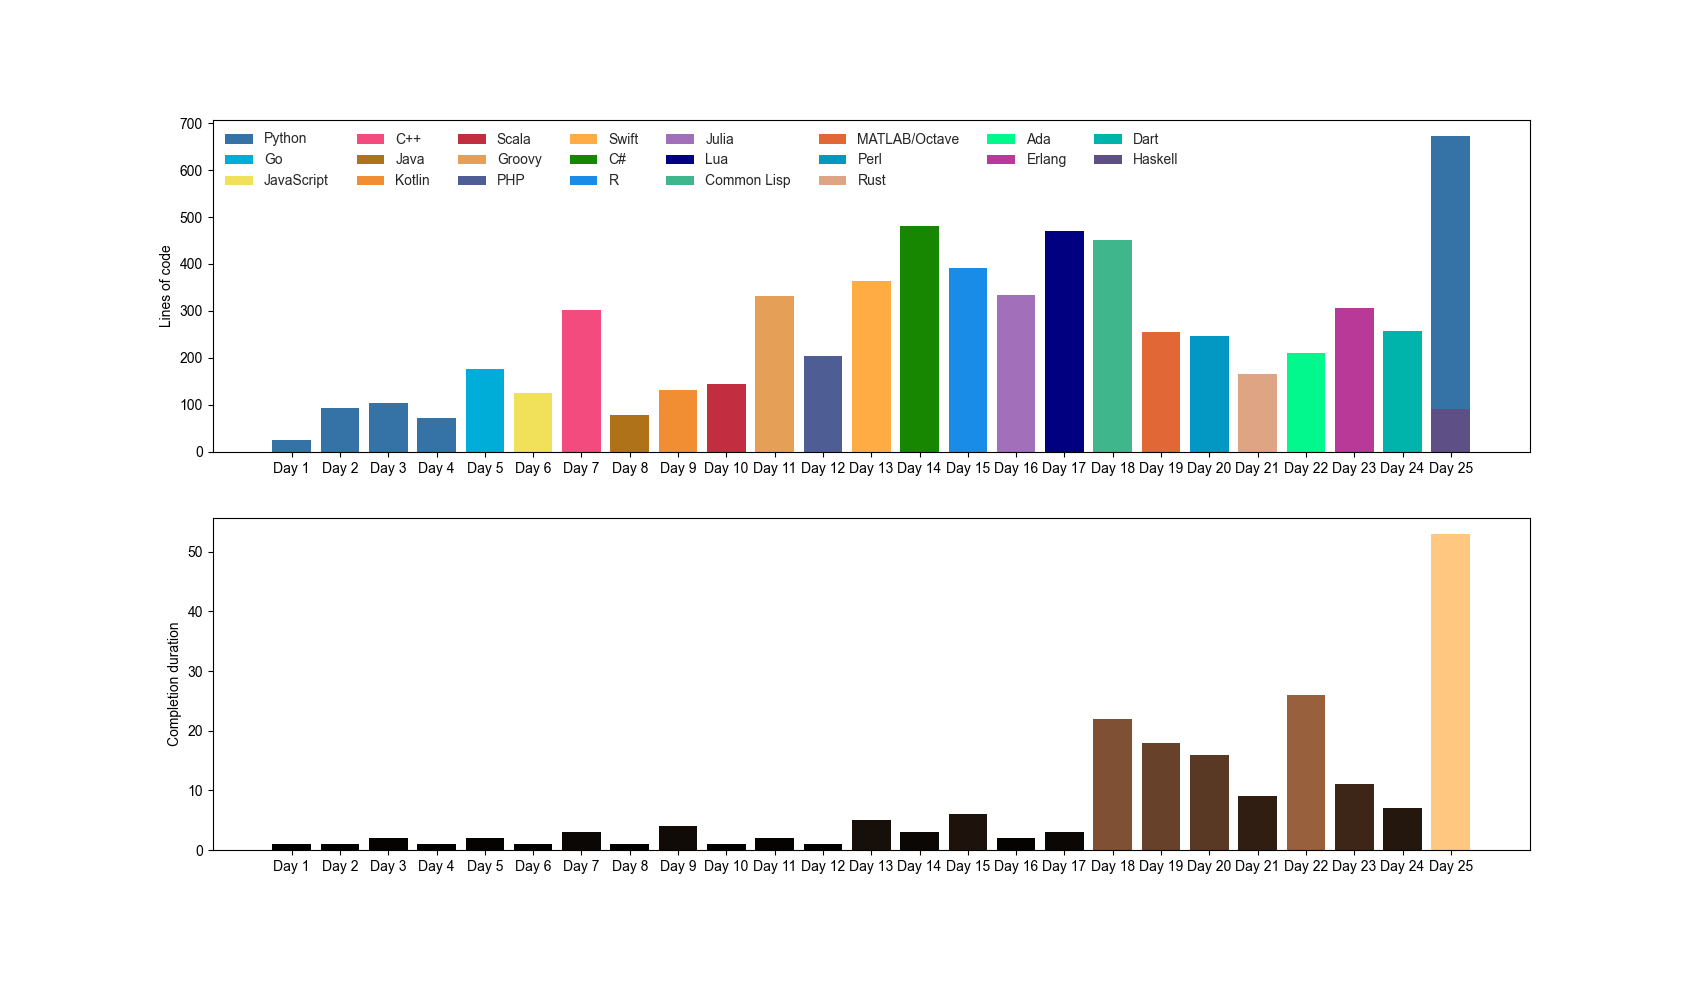
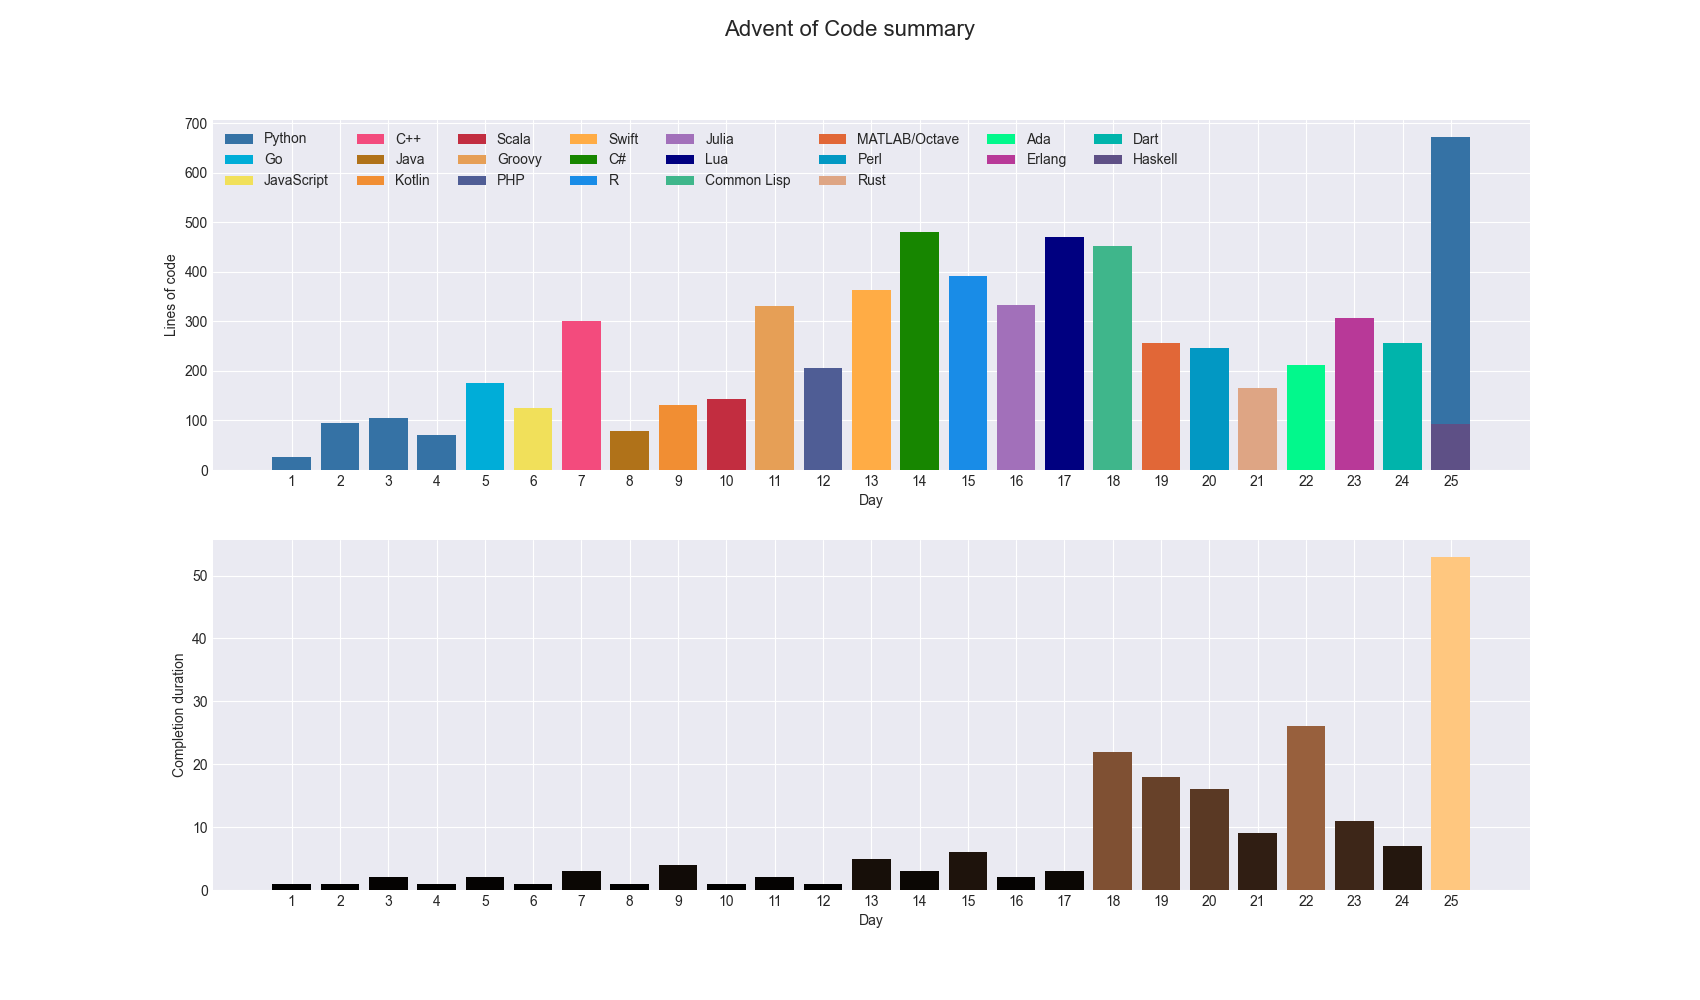
Fixed style, added title

diff --git a/summary.py b/summary.py
@@ -132,16 +132,14 @@ def main():
 
     repo = Repo('.')
 
-    plt.figure(figsize=(17, 5))
+    plt.style.use('seaborn-darkgrid')
     fig, (ax_top, ax_bot) = plt.subplots(nrows=2, ncols=1)
     fig.set_figwidth(17)
     fig.set_figheight(10)
-    plt.subplots_adjust(bottom=0.15)
-    plt.style.use('seaborn-darkgrid')
     for day_num in range(1, 25 + 1):
         dir_path = f"day_{day_num}"
         locs.append(day_num)
-        labels.append(f"Day {day_num}")
+        labels.append(day_num)
 
         files = get_files(dir_path)
 
@@ -184,7 +182,10 @@ def main():
     handles, labels = ax_top.get_legend_handles_labels()
     by_label = dict(zip(labels, handles))
     ax_top.set_ylabel("Lines of code")
+    ax_top.set_xlabel("Day")
     ax_bot.set_ylabel("Completion duration")
+    ax_bot.set_xlabel("Day")
+    fig.suptitle("Advent of Code summary", fontsize=16)
     ax_top.legend(by_label.values(), by_label.keys(), ncol=8)
     plt.savefig('docs/summary.png')
     plt.show()
